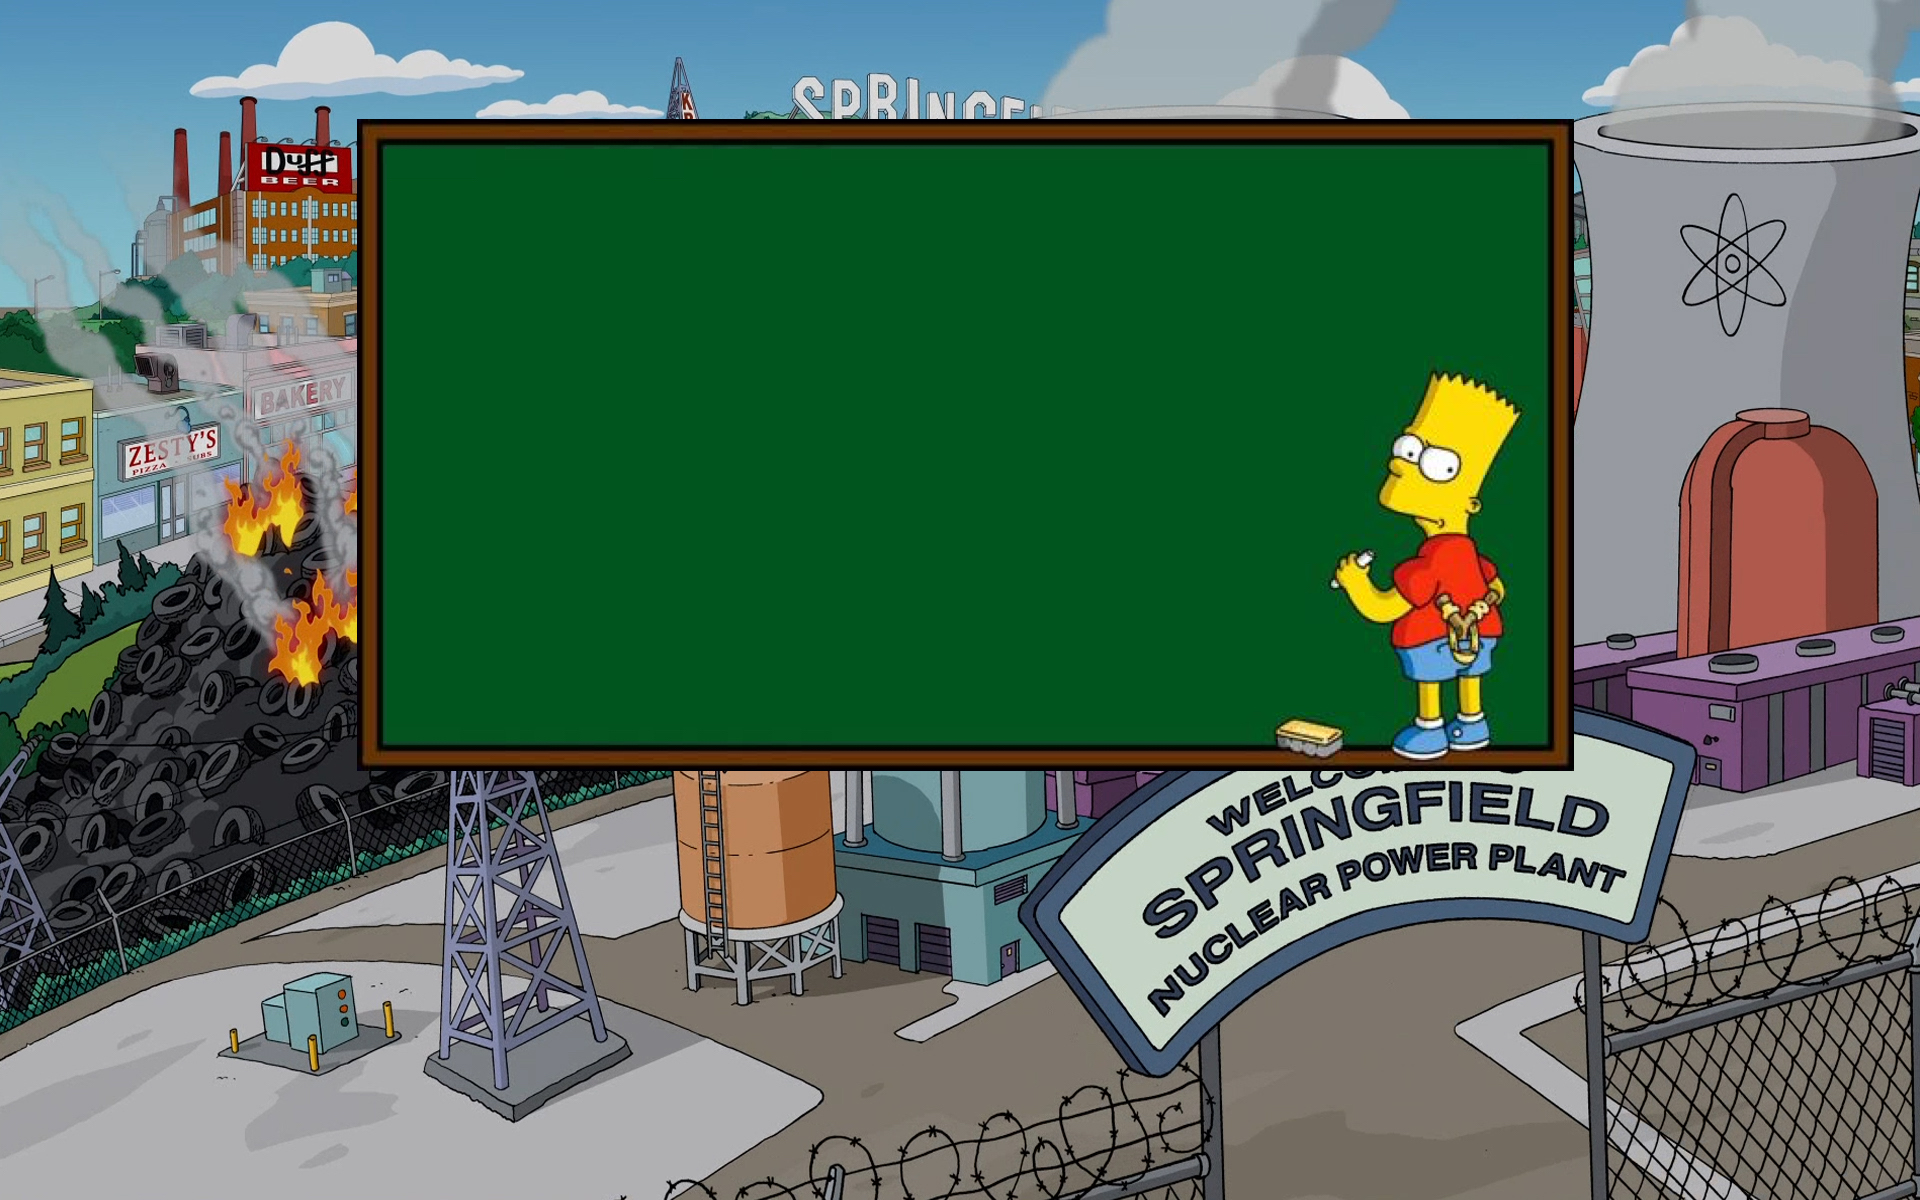
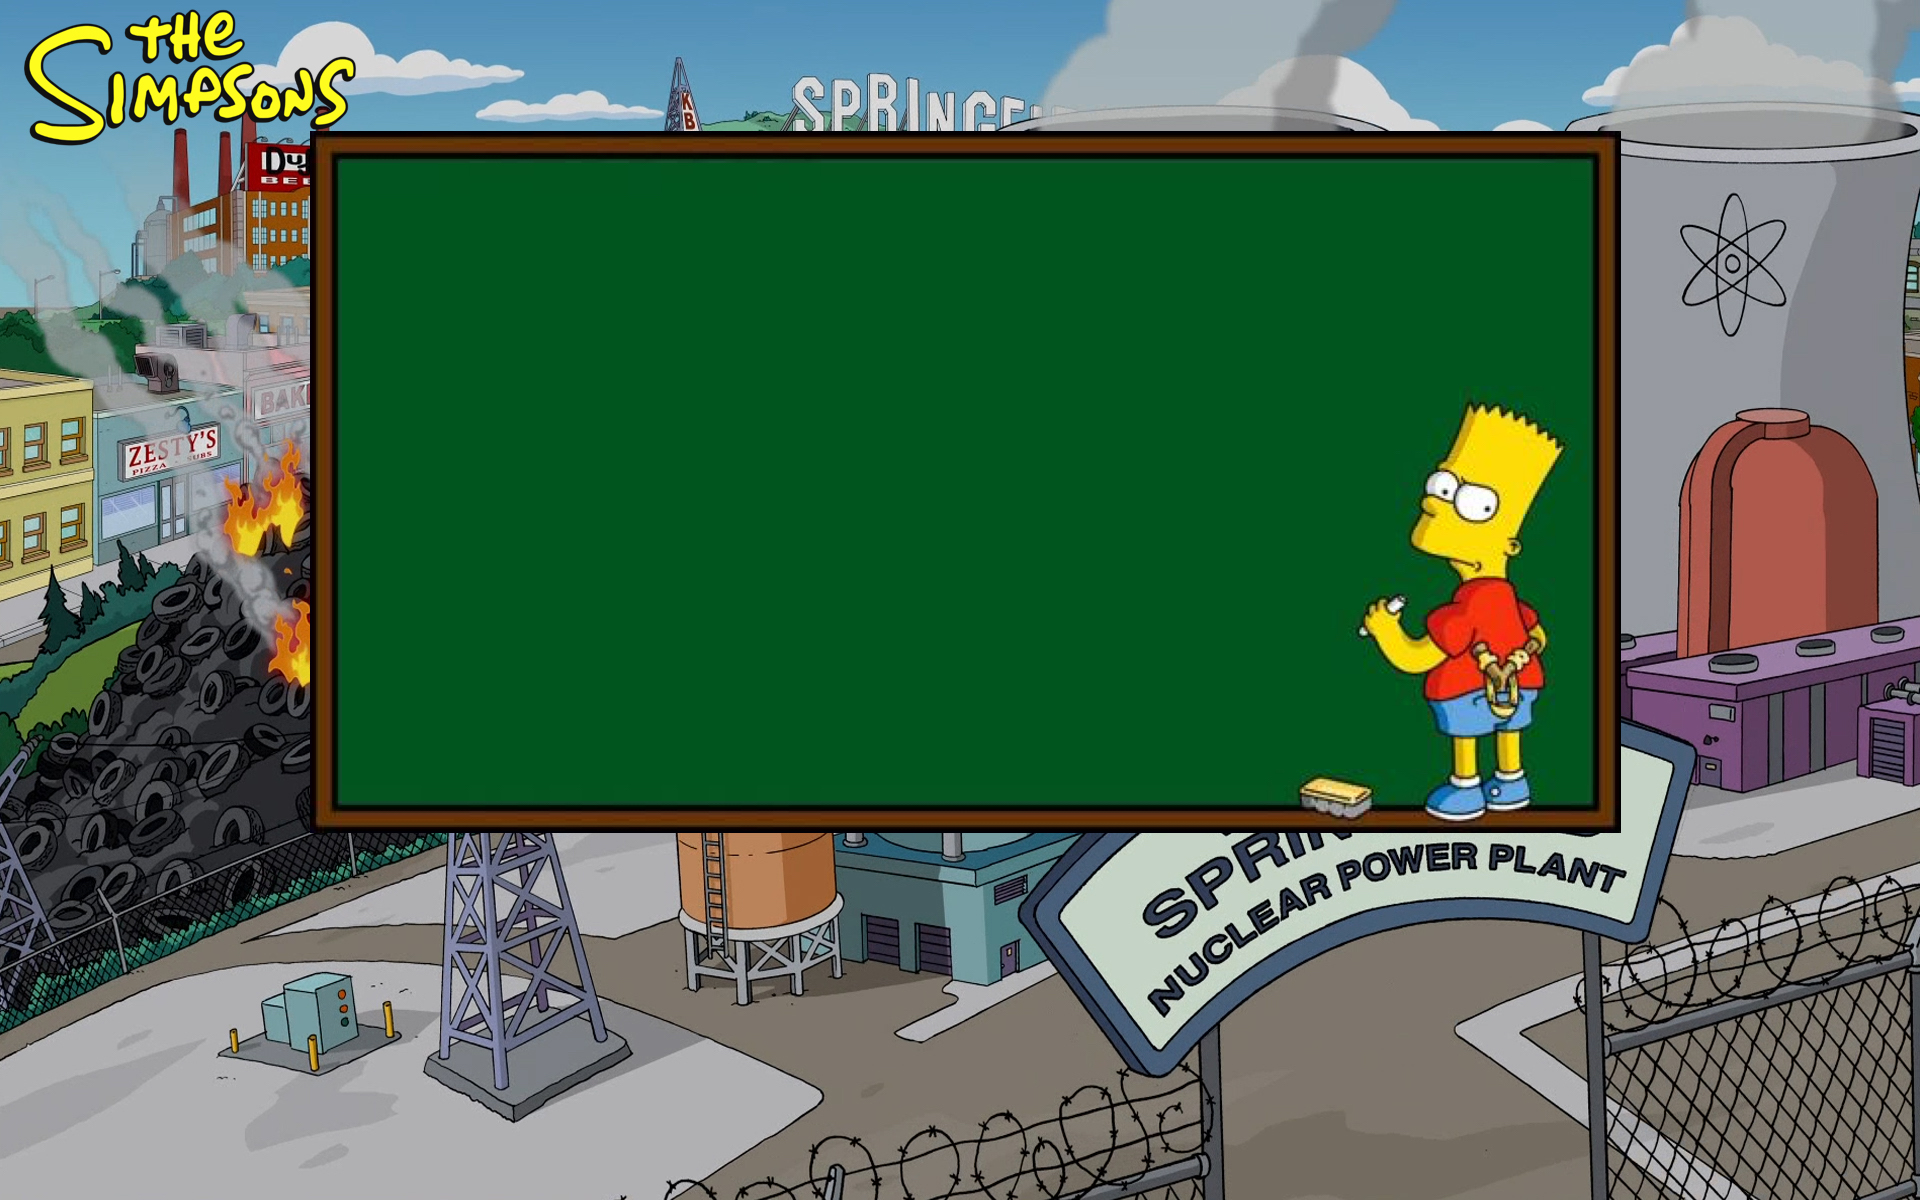
more styling

Changed region(s): [[0.0, 0.0, 0.8438, 0.7092]]

diff --git a/javascript/app.js b/javascript/app.js
@@ -178,7 +178,7 @@ var triviaGame = {
 		$('#timeRemaining').css('display', 'block');
 		$('#elapsedTime').html(triviaGame.timer);	
 		clearInterval(triviaGame.beginInt);
-		var newImg = $("<img>").attr('src', triviaGame.qAndA[triviaGame.questionCount].imgUrl).attr('width', '115px').attr('id', 'correctMovieImage');
+		var newImg = $("<img>").attr('src', triviaGame.qAndA[triviaGame.questionCount].imgUrl).attr('width', '115px').attr('id', 'correctImage');
 
 		$('#pic').append(newImg);
 

diff --git a/index.html b/index.html
@@ -18,8 +18,11 @@
 	</div>
 	
 	<div class="row">
-		<div id="questionArea">			
+		<div id="questionArea">
+			
+			
 			<div class="col-md-12">
+				<h1>The Simpsons Trivia Game!</h1>
 				<p id="btnWrapper"><button class="text-center btn btn-default" id="begin">Begin!</button></p>
 
 				<div id="gameStart">
